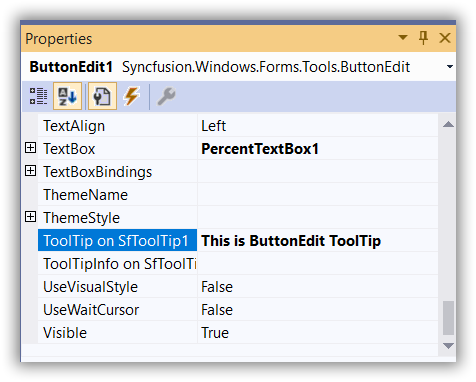
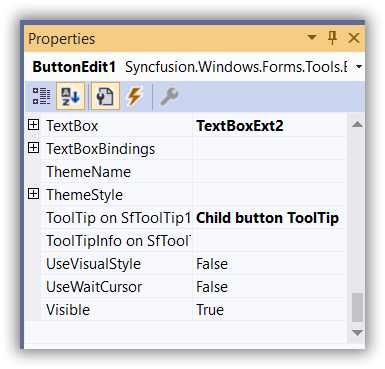
Changes has been updated successfully

Changed region(s): [[0.0312, 0.0298, 0.9662, 0.9539]]

diff --git a/WindowsForms/buttonedit/ButtonEditEvents.md b/WindowsForms/buttonedit/ButtonEditEvents.md
@@ -13,27 +13,24 @@ The [ButtonEdit](https://help.syncfusion.com/cr/cref_files/windowsforms/Syncfusi
 
 ## ButtonClicked Event
 
-This event is raised whenever a child button of a [ButtonEdit](https://help.syncfusion.com/cr/cref_files/windowsforms/Syncfusion.Tools.Windows~Syncfusion.Windows.Forms.Tools.ButtonEdit.html) control is clicked. It allows you to customize the child button that is clicked. 
+[ButtonClicked](https://help.syncfusion.com/cr/cref_files/windowsforms/Syncfusion.Tools.Windows~Syncfusion.Windows.Forms.Tools.ButtonEdit~ButtonClicked_EV.html) event is raised whenever [ButtonEditChildButton](https://help.syncfusion.com/cr/cref_files/windowsforms/Syncfusion.Tools.Windows~Syncfusion.Windows.Forms.Tools.ButtonEditChildButton.html) control is clicked. It allows you to get the child button that is clicked. 
 
 {% tabs %}
 {% highlight c# %}
 
-this.buttonEdit1.ButtonClicked +=new ButtonClickedEventHandler(buttonEdit1_ButtonClicked);
-private void buttonEdit1_ButtonClicked(object sender, ButtonClickedEventArgs e)
+buttonEdit.ButtonClicked += ButtonEdit_ButtonClicked;
+private void ButtonEdit_ButtonClicked(object sender, ButtonClickedEventArgs args)
 {
-//Changing the button alignment of the clicked button
-    e.ClickedButton.ButtonAlign = ButtonAlignment.Left;
+    args.ClickedButton.ButtonAlign = ButtonAlignment.Left;
 }
 
 {% endhighlight %}
 
 {% highlight vb %}
 
-AddHandler Me.buttonEdit1.ButtonClicked, AddressOf buttonEdit1_ButtonClicked 
-Private Sub buttonEdit1_ButtonClicked(ByVal sender As Object, ByVal e As ButtonClickedEventArgs)
-
-'Changing the button alignment of the clicked button 
-e.ClickedButton.ButtonAlign = ButtonAlignment.Left
+buttonEdit.ButtonClicked += ButtonEdit_ButtonClicked
+Private Sub ButtonEdit_ButtonClicked(ByVal sender As Object, ByVal args As ButtonClickedEventArgs)
+    args.ClickedButton.ButtonAlign = ButtonAlignment.Left
 End Sub
 
 {% endhighlight %}
@@ -86,7 +83,7 @@ End Sub
 
 ## ButtonEditChildButton Events
 
-The below table list the events that are available for the [ButtonEdit](https://help.syncfusion.com/cr/cref_files/windowsforms/Syncfusion.Tools.Windows~Syncfusion.Windows.Forms.Tools.ButtonEdit.html) Child Buttons control.
+The below table list the events that are available for the [ButtonEditChildButton](https://help.syncfusion.com/cr/cref_files/windowsforms/Syncfusion.Tools.Windows~Syncfusion.Windows.Forms.Tools.ButtonEditChildButton.html) control.
 
 <table>
 <tr>
@@ -134,6 +131,7 @@ You can display CalendarPopup on [ButtonEdit](https://help.syncfusion.com/cr/cre
 1. Drag and drop TableLayoutPanel and add ButtonEdit control on first row and resize to its fit.
 2. Remove unwanted columns in TableLayoutPanel.
 3. Create an instance of [CalendarPopup](https://help.syncfusion.com/cr/cref_files/windowsforms/Syncfusion.Tools.Windows~Syncfusion.Windows.Forms.Tools.CalendarPopup.html) and [MonthCalendarAdv](https://help.syncfusion.com/cr/cref_files/windowsforms/Syncfusion.Tools.Windows~Syncfusion.Windows.Forms.Tools.MonthCalendarAdv.html) control and add MonthCalendarAdv in CalendarPopup.
+4. Add the CalendarPopup control in second row.
 
 {% tabs %}
 {% highlight c# %}

diff --git a/WindowsForms/buttonedit/ChildButtonCustomization.md b/WindowsForms/buttonedit/ChildButtonCustomization.md
@@ -261,7 +261,7 @@ Me.buttonEditChildButton1.KeepFocusRectangle = True
 
 ## Hide Child Button in ButtonEdit
 
-You can hide the child buttons of [ButtonEdit](https://help.syncfusion.com/cr/cref_files/windowsforms/Syncfusion.Tools.Windows~Syncfusion.Windows.Forms.Tools.ButtonEdit.html) Control by using [HideButton](https://help.syncfusion.com/cr/cref_files/windowsforms/Syncfusion.Tools.Windows~Syncfusion.Windows.Forms.Tools.ButtonEdit~HideButton.html) method.
+You can hide the child buttons of [ButtonEdit](https://help.syncfusion.com/cr/cref_files/windowsforms/Syncfusion.Tools.Windows~Syncfusion.Windows.Forms.Tools.ButtonEdit.html) control by using [HideButton](https://help.syncfusion.com/cr/cref_files/windowsforms/Syncfusion.Tools.Windows~Syncfusion.Windows.Forms.Tools.ButtonEdit~HideButton.html) method.
 
 <table>
 <tr>

diff --git a/WindowsForms/buttonedit/faq/How-to-replace-the-default-TextBox-in-a-ButtonEdit-control.md b/WindowsForms/buttonedit/faq/How-to-replace-the-default-TextBox-in-a-ButtonEdit-control.md
@@ -17,6 +17,20 @@ You can replace the default TextBox of the [ButtonEdit](https://help.syncfusion.
 
 2. From the property window of ButtonEdit, select the PercentTextBox to be the TextBox control of the ButtonEdit control. 
 
+{% tabs %}
+{%highlight c#%}
+
+buttonEdit.TextBox = new PercentTextBox();
+
+{%endhighlight%}
+
+{%highlight vb%}
+
+buttonEdit.TextBox = new PercentTextBox()
+
+{%endhighlight%}
+{% endtabs %}
+
 ![Adding PercentageTextBox](FAQ_images/FAQ_img2.png) 
 
 3. From the same properties window, you can set the percent properties for the ButtonEdit control.

diff --git a/WindowsForms/buttonedit/faq/How-to-set-tooltip-for-ButtonEdit-Child-buttons.md b/WindowsForms/buttonedit/faq/How-to-set-tooltip-for-ButtonEdit-Child-buttons.md
@@ -18,13 +18,13 @@ You can also set the Tooltip for ButtonEdit control programmatically using its [
 {% tabs %}
 {%highlight c#%}
 
-toolTip.SetToolTip(buttonEdit1, "This is ButtonEdit toolTip");
+toolTip.SetToolTip(childButton, "Child button toolTip");
 
 {%endhighlight%}
 
 {%highlight vb%}
 
-toolTip.SetToolTip(buttonEdit1, "This is ButtonEdit toolTip")
+toolTip.SetToolTip(childButton, "Child button toolTip")
 
 {%endhighlight%}
 {% endtabs %}
